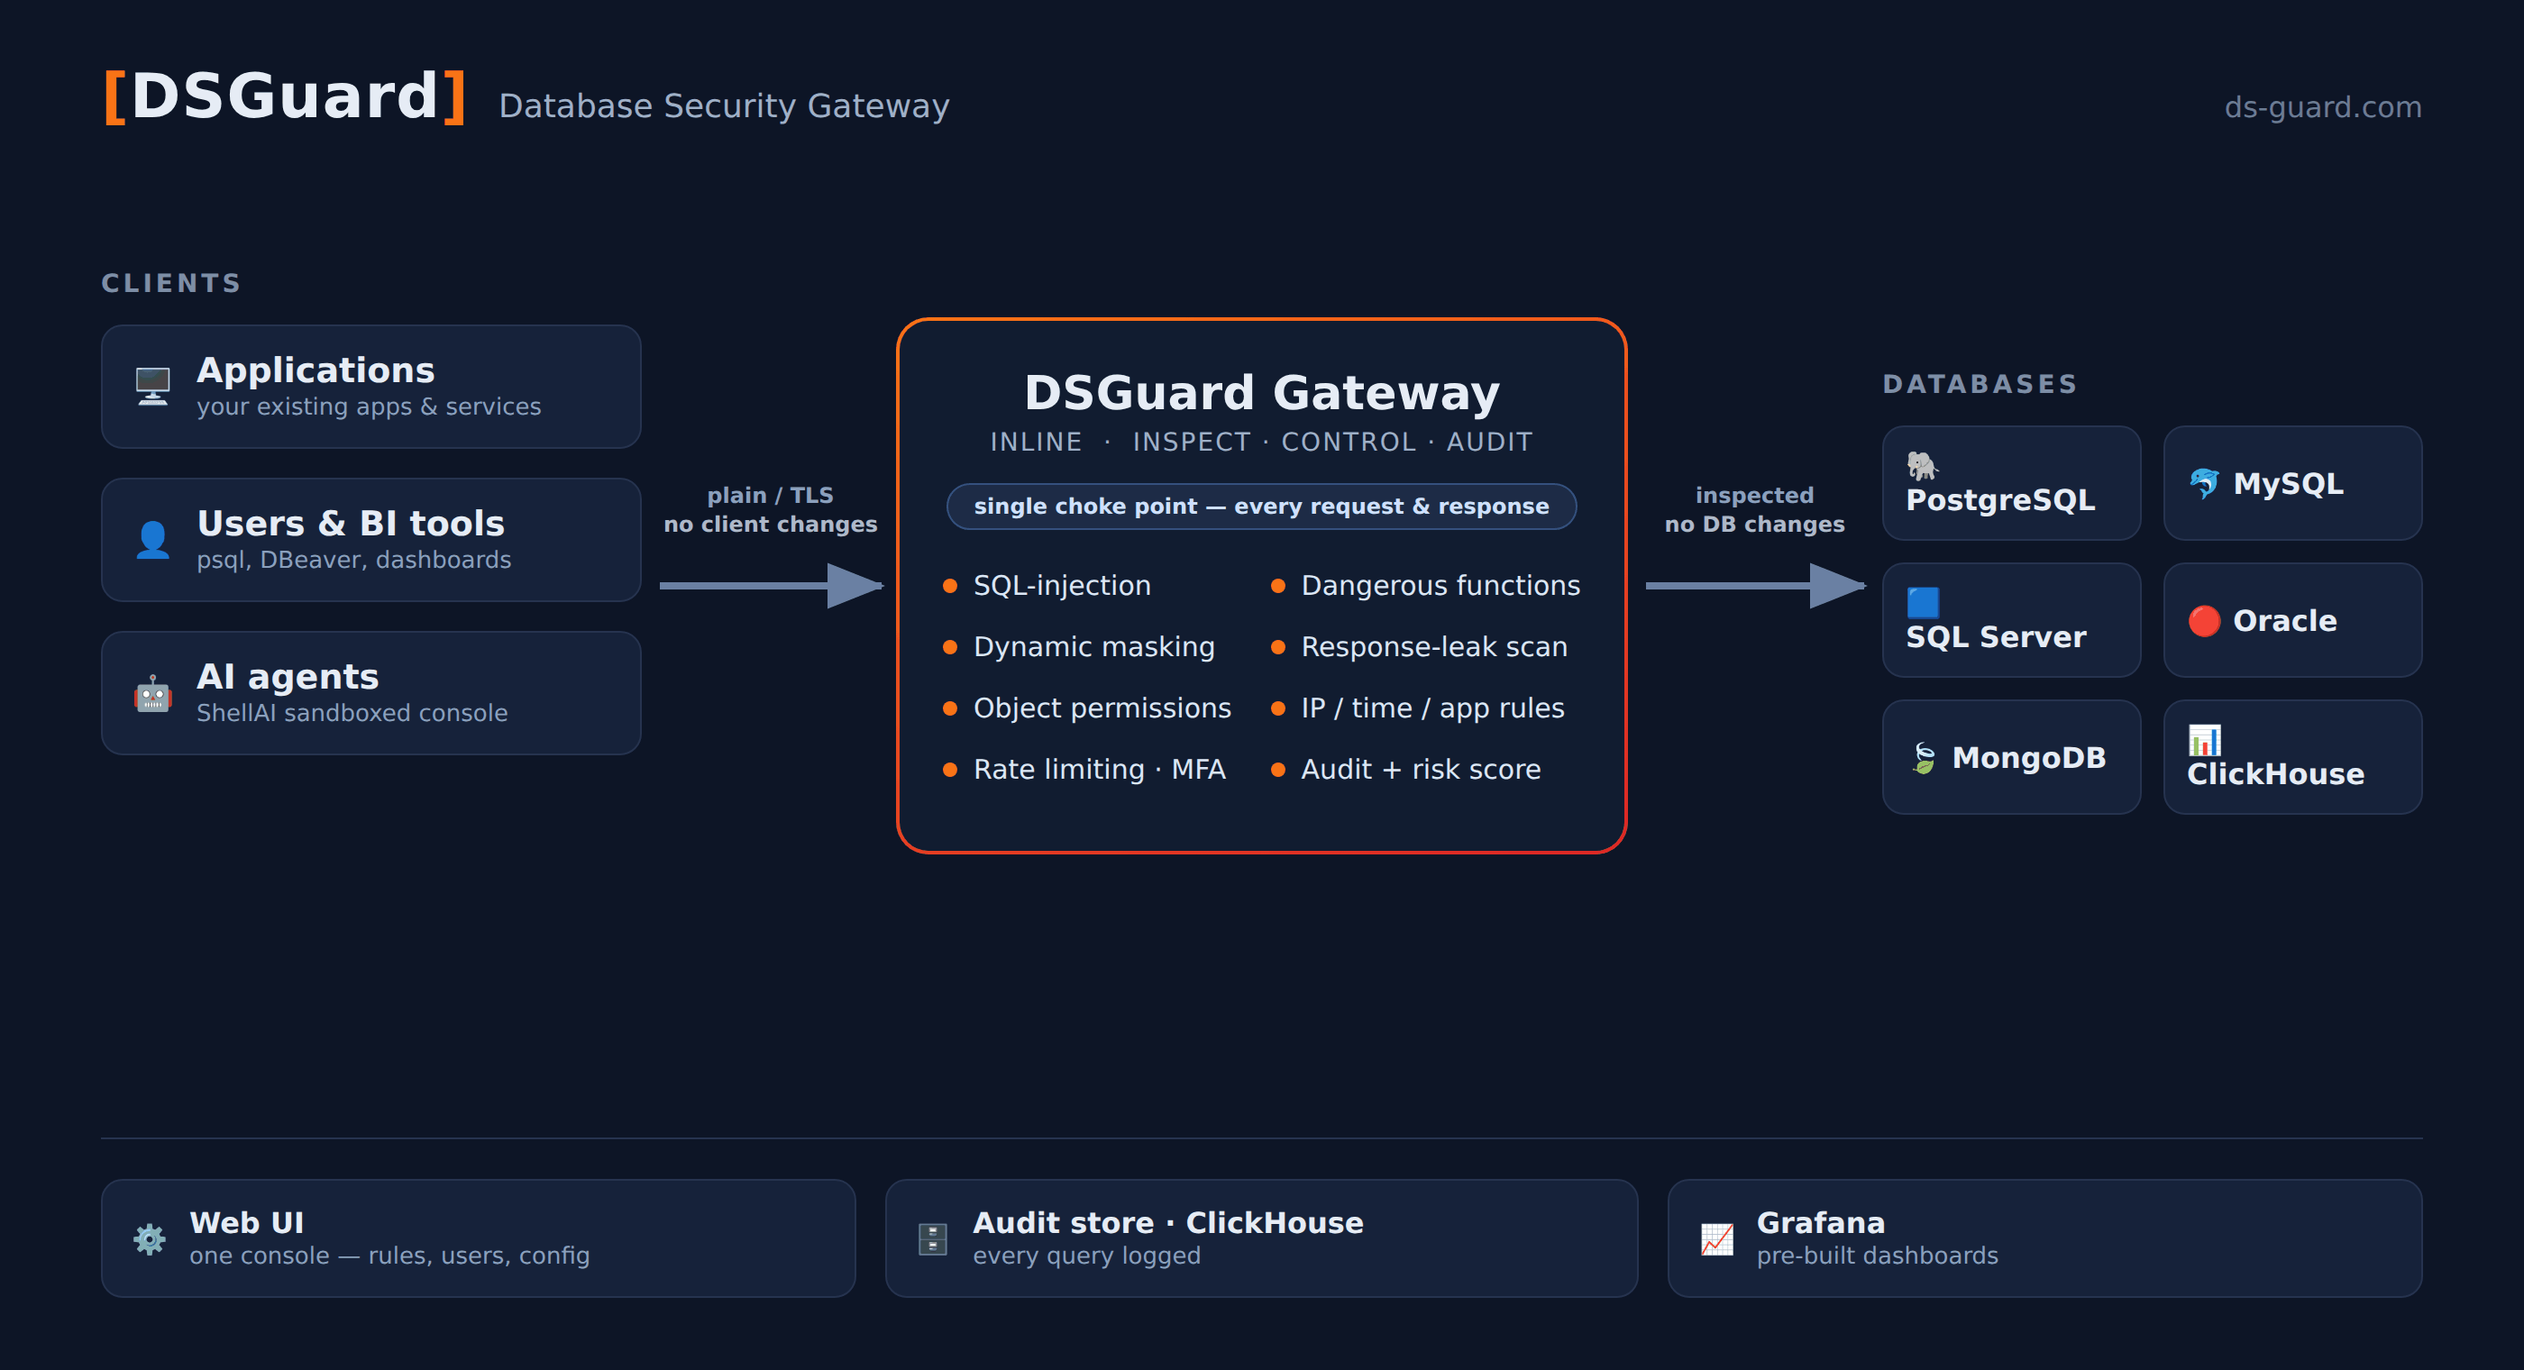
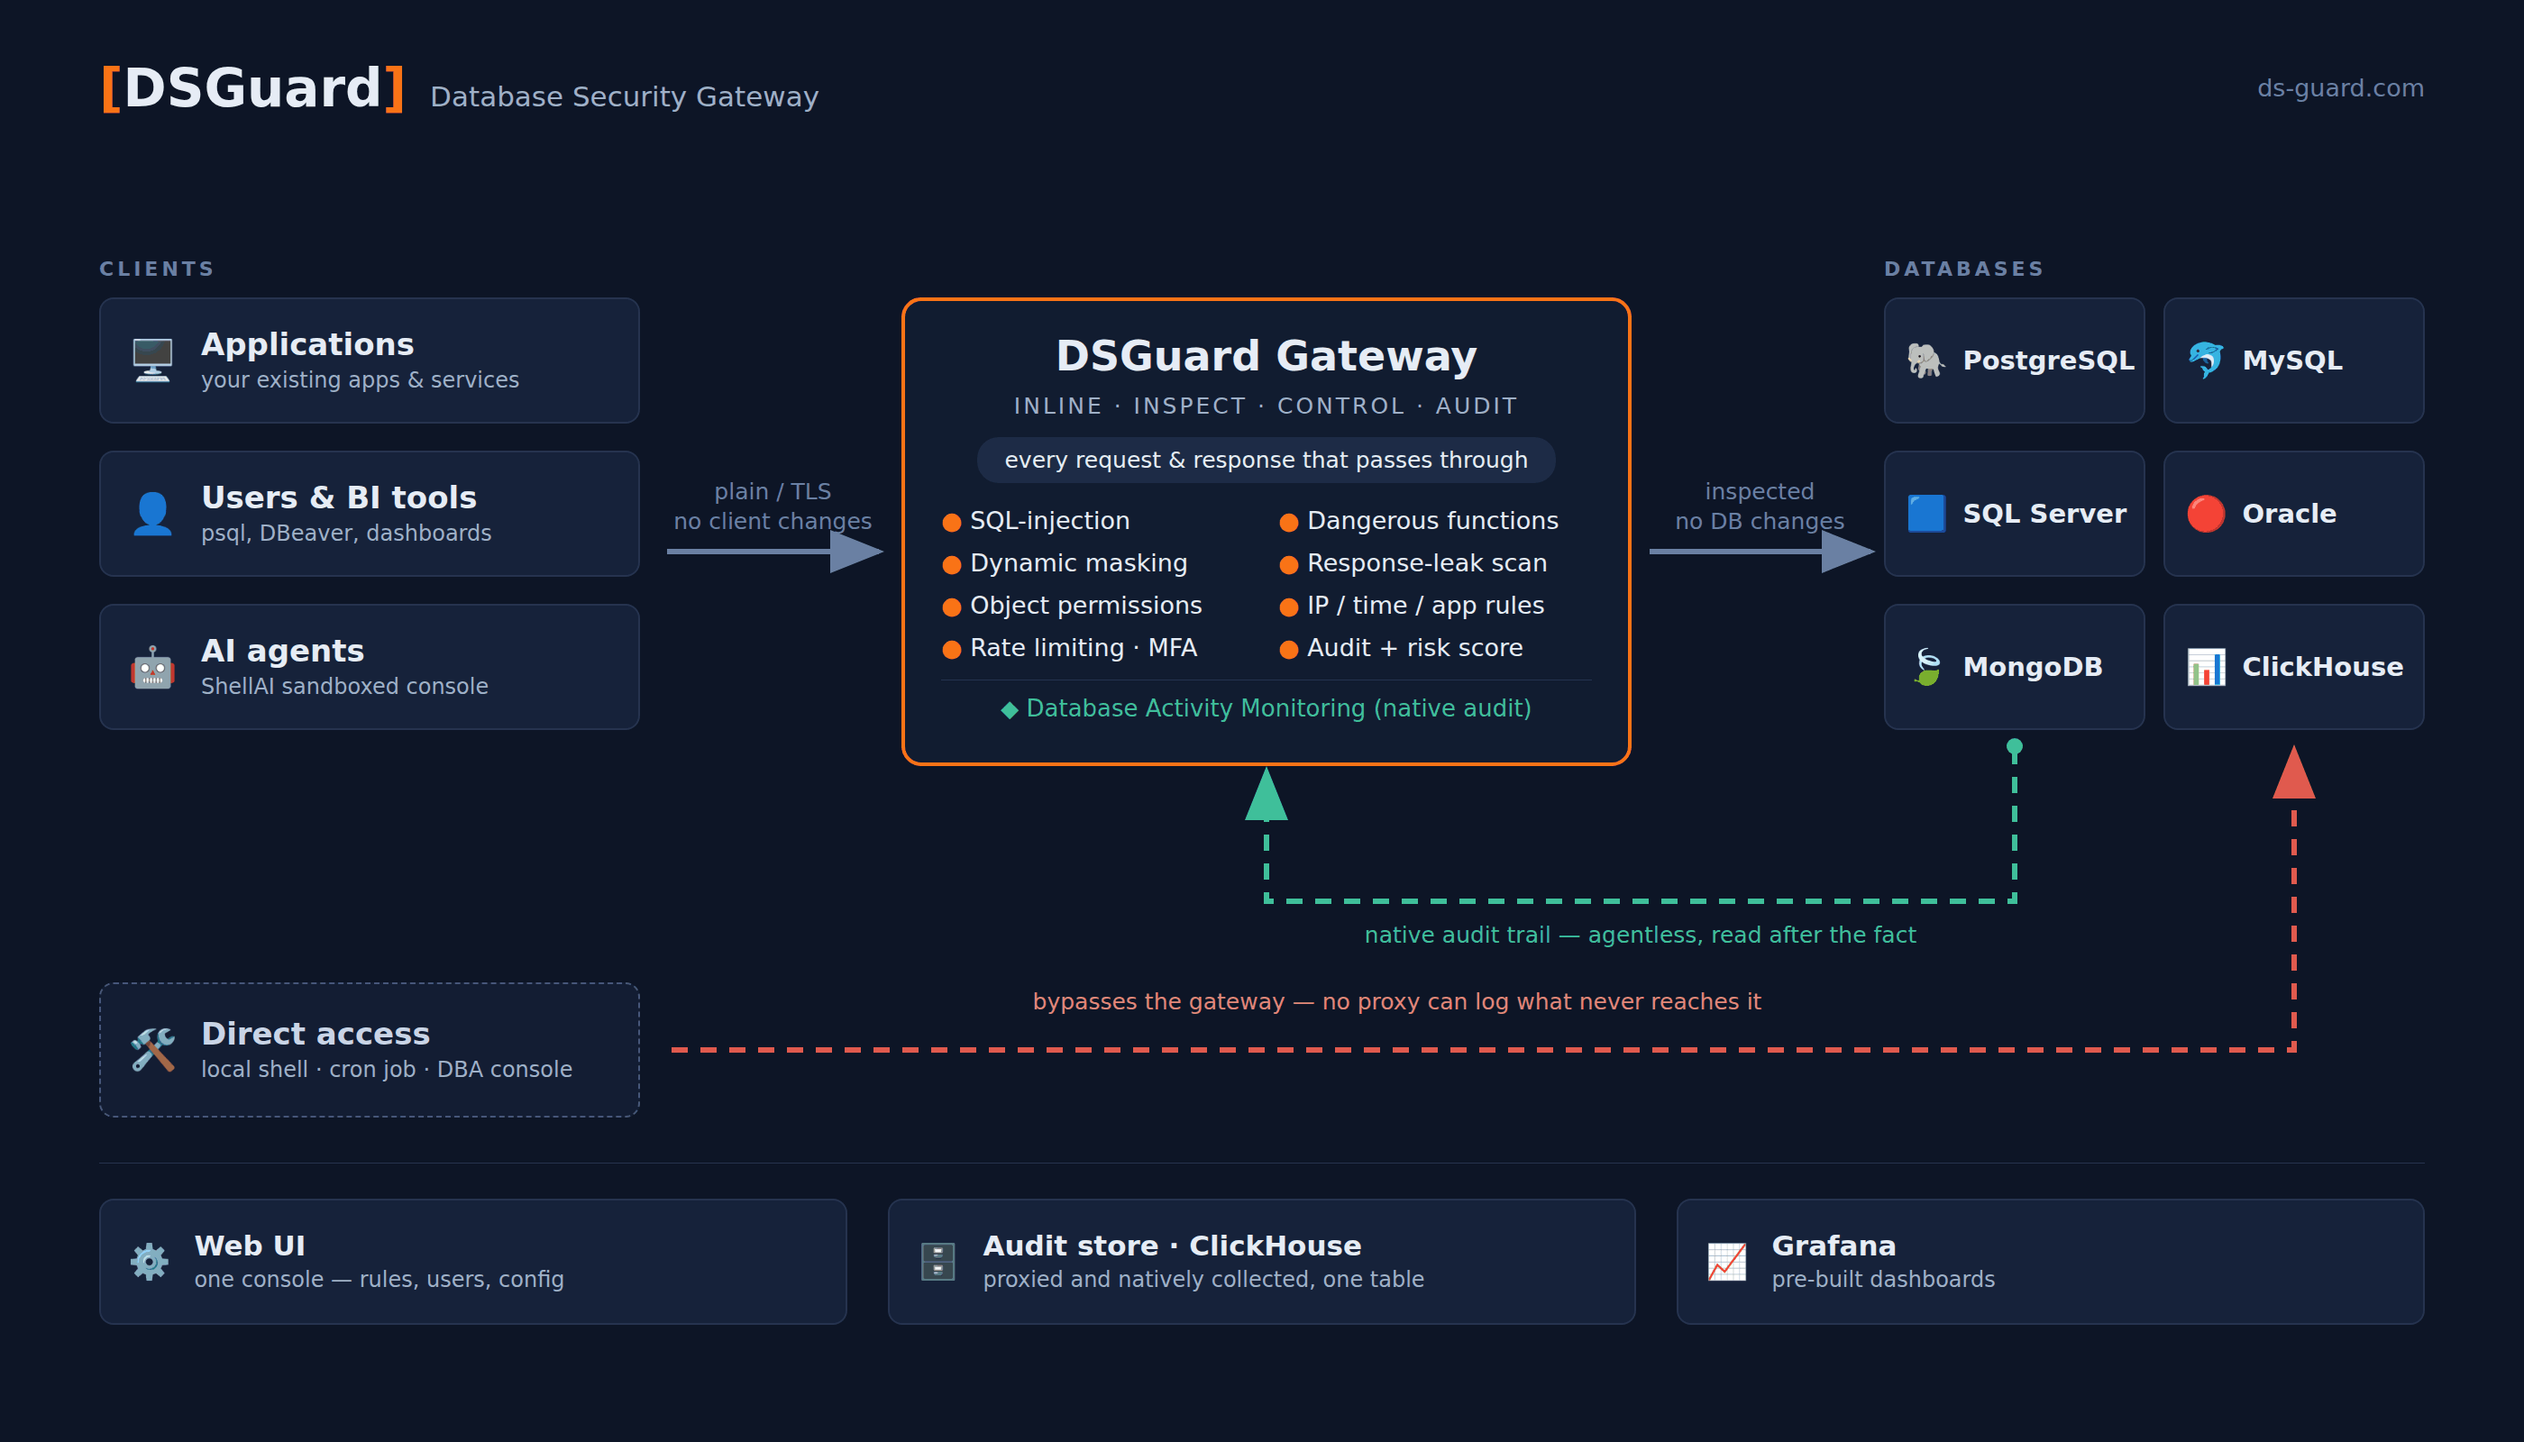
docs: the topology shows what goes around the gateway, not only through it
The diagram claimed "single choke point — every request & response", and the
audit store claimed "every query logged". Both are what Database Activity
Monitoring exists because they are not true: a local shell, a scheduled job or
a DBA connecting straight to the database never reaches the gateway, and no
proxy can log what never reaches it. The picture was not merely missing a
feature — it taught the misconception the feature corrects, on the most visible
surface we have.

Redrawn from the published PNG (palette sampled from it, no source was kept):

- a "Direct access" origin (local shell / cron job / DBA console) with a dashed
  path straight to the databases, never touching the gateway
- a dashed return path from the databases to the gateway: the native audit
  trail, read after the fact, agentless
- the badge now reads "every request & response that passes through"
- "Database Activity Monitoring (native audit)" in the gateway, coloured to
  match its path
- the audit store reads "proxied and natively collected, one table"

Layout verified rather than eyeballed: every leaf text box measured in the
renderer — 42 boxes, 0 overlapping pairs, 0 overflowing the canvas.

The HTML the PNG is rendered from is committed beside it, so the next edit does
not start by sampling pixels again.

diff --git a/docs/topology.source.html b/docs/topology.source.html
@@ -1,0 +1,145 @@
+<!doctype html>
+<meta charset="utf-8">
+<style>
+  /* Palette sampled from the published topology.png so the redraw matches it. */
+  :root{
+    --bg:#0d1526; --card:#16223a; --edge:#26334f; --gw:#111c30; --pill:#1d2b46;
+    --orange:#f97316; --white:#e6ecf5; --grey:#9fb0c7; --dim:#6a80a3;
+    --teal:#3fbf9a; --red:#e05a4e;
+  }
+  *{box-sizing:border-box;margin:0;padding:0}
+  html,body{width:2800px;height:1600px;background:var(--bg);overflow:hidden}
+  body{position:relative;font-family:"DejaVu Sans",sans-serif;-webkit-font-smoothing:antialiased}
+  .abs{position:absolute}
+  .card{background:var(--card);border:2px solid var(--edge);border-radius:16px;
+        display:flex;align-items:center;gap:26px;padding:0 30px}
+  .ico{font-size:44px;line-height:1;flex:0 0 auto}
+  .t1{color:var(--white);font-size:34px;font-weight:700;line-height:1.15}
+  .t2{color:var(--grey);font-size:24px;line-height:1.2;margin-top:6px}
+  .seclabel{color:var(--dim);font-size:22px;font-weight:700;letter-spacing:4px}
+  .dbname{color:var(--white);font-size:29px;font-weight:700;white-space:nowrap}
+  svg{position:absolute;left:0;top:0;width:2800px;height:1600px;pointer-events:none}
+  .lbl{position:absolute;color:var(--dim);font-size:25px;line-height:1.3;text-align:center}
+</style>
+
+<!-- ── header ─────────────────────────────────────────────────────────── -->
+<div class="abs" style="left:110px;top:64px;display:flex;align-items:baseline;gap:26px">
+  <div style="font-size:58px;font-weight:700;color:var(--white)">
+    <span style="color:var(--orange)">[</span>DSGuard<span style="color:var(--orange)">]</span>
+  </div>
+  <div style="font-size:31px;color:var(--grey)">Database Security Gateway</div>
+</div>
+<div class="abs" style="right:110px;top:82px;font-size:27px;color:var(--dim)">ds-guard.com</div>
+
+<!-- ── clients ────────────────────────────────────────────────────────── -->
+<div class="abs seclabel" style="left:110px;top:286px">CLIENTS</div>
+<div class="abs card" style="left:110px;top:330px;width:600px;height:140px">
+  <div class="ico">🖥</div><div><div class="t1">Applications</div><div class="t2">your existing apps &amp; services</div></div>
+</div>
+<div class="abs card" style="left:110px;top:500px;width:600px;height:140px">
+  <div class="ico">👤</div><div><div class="t1">Users &amp; BI tools</div><div class="t2">psql, DBeaver, dashboards</div></div>
+</div>
+<div class="abs card" style="left:110px;top:670px;width:600px;height:140px">
+  <div class="ico">🤖</div><div><div class="t1">AI agents</div><div class="t2">ShellAI sandboxed console</div></div>
+</div>
+
+<!-- ── gateway ────────────────────────────────────────────────────────── -->
+<div class="abs" style="left:1000px;top:330px;width:810px;height:520px;
+     background:var(--gw);border:4px solid var(--orange);border-radius:22px">
+  <div style="text-align:center;margin-top:34px;font-size:46px;font-weight:700;color:var(--white)">DSGuard Gateway</div>
+  <div style="text-align:center;margin-top:14px;font-size:25px;color:var(--grey);letter-spacing:3px">INLINE · INSPECT · CONTROL · AUDIT</div>
+  <div style="margin:20px auto 0;width:fit-content;background:var(--pill);border-radius:24px;
+              padding:11px 30px;font-size:25px;color:var(--white)">every request &amp; response that passes through</div>
+
+  <!-- 8 inline controls, two columns -->
+  <div style="margin:26px 40px 0;display:grid;grid-template-columns:1fr 1fr;column-gap:26px;row-gap:16px">
+    <div style="font-size:27px;color:var(--white)"><span style="color:var(--orange)">●</span> SQL-injection</div>
+    <div style="font-size:27px;color:var(--white)"><span style="color:var(--orange)">●</span> Dangerous functions</div>
+    <div style="font-size:27px;color:var(--white)"><span style="color:var(--orange)">●</span> Dynamic masking</div>
+    <div style="font-size:27px;color:var(--white)"><span style="color:var(--orange)">●</span> Response-leak scan</div>
+    <div style="font-size:27px;color:var(--white)"><span style="color:var(--orange)">●</span> Object permissions</div>
+    <div style="font-size:27px;color:var(--white)"><span style="color:var(--orange)">●</span> IP / time / app rules</div>
+    <div style="font-size:27px;color:var(--white)"><span style="color:var(--orange)">●</span> Rate limiting · MFA</div>
+    <div style="font-size:27px;color:var(--white)"><span style="color:var(--orange)">●</span> Audit + risk score</div>
+  </div>
+
+  <!-- the second acquisition path, tied by colour to the dashed line below -->
+  <div style="margin:20px 40px 0;padding-top:16px;border-top:1px solid #24334f;
+              font-size:26px;color:var(--teal);text-align:center">
+    <span>◆</span> Database Activity Monitoring (native audit)
+  </div>
+</div>
+
+<!-- ── databases ──────────────────────────────────────────────────────── -->
+<div class="abs seclabel" style="left:2090px;top:286px">DATABASES</div>
+<div class="abs card" style="left:2090px;top:330px;width:290px;height:140px;gap:16px;padding:0 22px">
+  <div class="ico" style="font-size:38px">🐘</div><div class="dbname">PostgreSQL</div></div>
+<div class="abs card" style="left:2400px;top:330px;width:290px;height:140px;gap:16px;padding:0 22px">
+  <div class="ico" style="font-size:38px">🐬</div><div class="dbname">MySQL</div></div>
+<div class="abs card" style="left:2090px;top:500px;width:290px;height:140px;gap:16px;padding:0 22px">
+  <div class="ico" style="font-size:38px">🟦</div><div class="dbname">SQL Server</div></div>
+<div class="abs card" style="left:2400px;top:500px;width:290px;height:140px;gap:16px;padding:0 22px">
+  <div class="ico" style="font-size:38px">🔴</div><div class="dbname">Oracle</div></div>
+<div class="abs card" style="left:2090px;top:670px;width:290px;height:140px;gap:16px;padding:0 22px">
+  <div class="ico" style="font-size:38px">🍃</div><div class="dbname">MongoDB</div></div>
+<div class="abs card" style="left:2400px;top:670px;width:290px;height:140px;gap:16px;padding:0 22px">
+  <div class="ico" style="font-size:38px">📊</div><div class="dbname">ClickHouse</div></div>
+
+<!-- ── the traffic that never reaches the gateway ─────────────────────── -->
+<div class="abs" style="left:110px;top:1090px;width:600px;height:150px;background:#131d33;
+     border:2px dashed #46567a;border-radius:16px;display:flex;align-items:center;gap:26px;padding:0 30px">
+  <div class="ico">🛠</div>
+  <div><div class="t1" style="color:#c9d4e6">Direct access</div>
+       <div class="t2">local shell · cron job · DBA console</div></div>
+</div>
+
+<!-- ── connectors ─────────────────────────────────────────────────────── -->
+<svg viewBox="0 0 2800 1600">
+  <defs>
+    <marker id="ar" markerWidth="10" markerHeight="8" refX="9" refY="4" orient="auto">
+      <path d="M0,0 L10,4 L0,8 z" fill="#6a80a3"/></marker>
+    <marker id="arT" markerWidth="10" markerHeight="8" refX="9" refY="4" orient="auto">
+      <path d="M0,0 L10,4 L0,8 z" fill="#3fbf9a"/></marker>
+    <marker id="arR" markerWidth="10" markerHeight="8" refX="9" refY="4" orient="auto">
+      <path d="M0,0 L10,4 L0,8 z" fill="#e05a4e"/></marker>
+  </defs>
+
+  <!-- clients -> gateway -->
+  <line x1="740" y1="612" x2="975" y2="612" stroke="#6a80a3" stroke-width="6" marker-end="url(#ar)"/>
+  <!-- gateway -> databases -->
+  <line x1="1830" y1="612" x2="2075" y2="612" stroke="#6a80a3" stroke-width="6" marker-end="url(#ar)"/>
+
+  <!-- native audit read-back: databases -> gateway (teal, dashed) -->
+  <path d="M2235,830 L2235,1000 L1405,1000 L1405,856" fill="none" stroke="#3fbf9a"
+        stroke-width="6" stroke-dasharray="18 14" marker-end="url(#arT)"/>
+
+  <circle cx="2235" cy="828" r="9" fill="#3fbf9a"/>
+
+  <!-- bypass: direct access -> databases, never touching the gateway (red, dashed) -->
+  <path d="M745,1165 L2545,1165 L2545,832" fill="none" stroke="#e05a4e"
+        stroke-width="6" stroke-dasharray="18 14" marker-end="url(#arR)"/>
+</svg>
+
+<!-- ── connector labels (placed clear of every line) ──────────────────── -->
+<div class="lbl" style="left:715px;top:530px;width:285px">plain / TLS<br>no client changes</div>
+<div class="lbl" style="left:1815px;top:530px;width:275px">inspected<br>no DB changes</div>
+<div class="lbl" style="left:1430px;top:1022px;width:780px;color:var(--teal)">
+  native audit trail — agentless, read after the fact</div>
+<div class="lbl" style="left:900px;top:1096px;width:1300px;color:#e2857b">
+  bypasses the gateway — no proxy can log what never reaches it</div>
+
+<!-- ── infrastructure row ─────────────────────────────────────────────── -->
+<div class="abs" style="left:110px;top:1290px;width:2580px;height:1px;background:var(--edge)"></div>
+<div class="abs card" style="left:110px;top:1330px;width:830px;height:140px">
+  <div class="ico" style="font-size:38px">⚙</div>
+  <div><div class="t1" style="font-size:31px">Web UI</div><div class="t2">one console — rules, users, config</div></div>
+</div>
+<div class="abs card" style="left:985px;top:1330px;width:830px;height:140px">
+  <div class="ico" style="font-size:38px">🗄</div>
+  <div><div class="t1" style="font-size:31px">Audit store · ClickHouse</div>
+       <div class="t2">proxied and natively collected, one table</div></div>
+</div>
+<div class="abs card" style="left:1860px;top:1330px;width:830px;height:140px">
+  <div class="ico" style="font-size:38px">📈</div>
+  <div><div class="t1" style="font-size:31px">Grafana</div><div class="t2">pre-built dashboards</div></div>
+</div>
